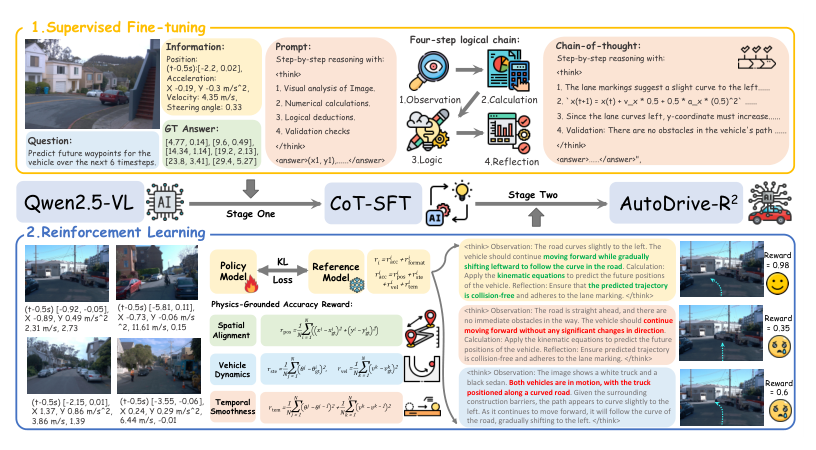
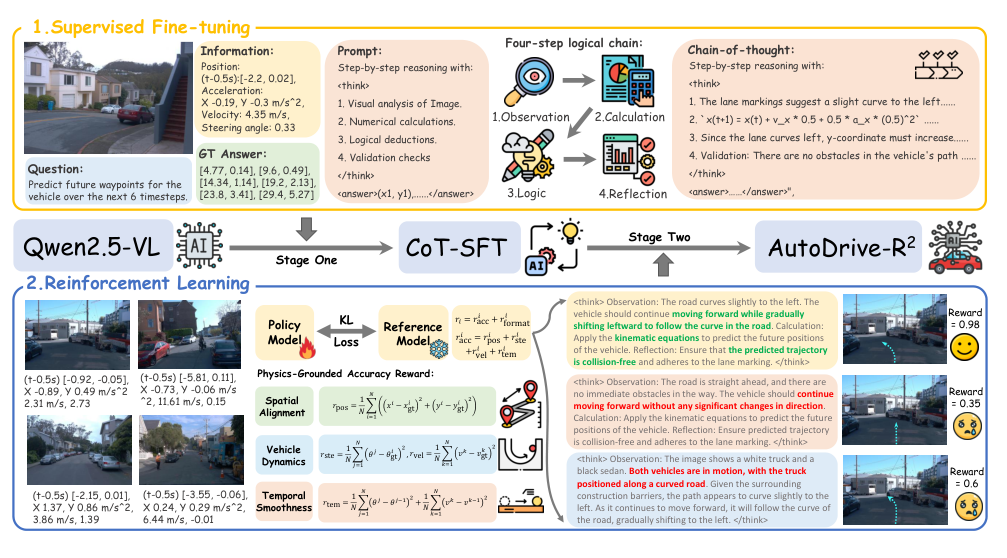
详解卡框图补齐 27→34 张(全覆盖):补 OpenDriveVLA/Triplane/OffEMMA/3DGUT 与三篇综述的分类体系图
补上的 6 篇此前不是抓不到,是 grab_fig 自身的坑:
· local_pdf 只认 storage: 前缀 —— Zotero 附件三种存法,本库 235 个 PDF 是链接文件(linkMode=2 绝对路径),被静默跳过
· 同一 cursor 连查附件与设置,后一次 execute 冲掉前一次结果集,fetchall 返回空
· 裁剪下边界只到图形区,图内底部文字标签(3DGUT 图2 的 Monte Carlo/EWA/UT)不在 get_drawings 里被拦腰截断,改为向题注方向延伸至多 22pt

另:框图加载失败时不再显示破图标,虚线框内提示路径与「多半是本地预览服务器没提供静态资源」,便于区分没抓到与服务器问题
回归 34 篇:25 篇与在用图一致,AutoDrive-R² 右缘不再切字改用新裁剪

diff --git a/pages/e2e-autonomous-driving-vla.html b/pages/e2e-autonomous-driving-vla.html
@@ -173,6 +173,10 @@ td.c{text-align:center;}
 figure.pfig{margin:6px 0 6px;}
 figure.pfig .frame{background:#fff; border:1px solid var(--line); border-radius:12px;
   padding:12px; overflow:hidden;}
+figure.pfig .frame.figfail{background:var(--panel-2); border-style:dashed; min-height:64px;
+  display:flex; align-items:center; justify-content:center; color:var(--muted); font-size:13px;}
+figure.pfig .frame.figfail::after{content:"框图加载失败：" attr(data-src) "（文件在仓库里，多半是本地预览服务器没提供静态资源）";
+  padding:14px 18px; text-align:center; line-height:1.6;}
 figure.pfig img{display:block; max-width:100%; height:auto; margin:0 auto;}
 figure.pfig figcaption{margin:7px 2px 12px; font-size:12.5px; color:var(--dim); text-align:right;
   font-family:var(--mono);}
@@ -823,6 +827,7 @@ const PAPERS = [
   '把 3D 神经重建的<span class="hi">三平面（triplane）表征</span>用于传感 token 化：token 数与相机数量、分辨率解耦，并显式编码自车周围几何；',
   '相比图像 patch token 化 <span class="hb">token 减少 72%、策略推理提速 50%</span>，为自回归 Transformer 策略上嵌入式硬件铺路；',
   '开环规划精度不降，闭环仿真 offroad 率反而改善。'],
+ fig:"../assets/e2e-ad/U5RKKDV2.png",
  dg:[["N 路相机","in"],["三平面投影编码","enc"],["紧凑传感 token","aux"],["自回归策略 Transformer","llm"],["规划轨迹","out"]],
  expr:{input:"环视多相机图像（token 化与相机数量/分辨率无关）",
    backbone:"Triplane 编码器 + 自回归 Transformer 驾驶策略",
@@ -954,6 +959,7 @@ const PAPERS = [
   '针对 VLA 在越野场景「空间感知不足、推理不稳」两大缺陷：<span class="hi">语义分割掩码作视觉提示</span>显式标注输入图像，增强预训练 VLM 对复杂地形的空间理解；',
   '<span class="hb">链式思维 + 自洽性（CoT-SC）</span>多路径推理投票，抑制离群推理对规划的干扰；',
   'RELLIS-3D 上较 Qwen 骨干基线 L2 误差降 13.3%、失败率从 16.52% 降至 6.56%。'],
+ fig:"../assets/e2e-ad/PSQLC2NZ.png",
  dg:[["越野图像","in"],["分割掩码视觉提示","aux"],["VLM（Qwen 系）","llm"],["CoT-SC 多路径推理","aux"],["轨迹","out"]],
  expr:{input:"越野场景图像 + 语义分割掩码视觉提示（显式标注可行驶区域）",
    backbone:"Qwen 系视觉-语言骨干 + 视觉提示模块 + CoT-SC 推理策略",
@@ -1006,6 +1012,7 @@ const PAPERS = [
  one:"200+ 篇统一视角：视觉中心 / VLM 中心 / 混合，同一 GE2E 问题的三种方言",
  loop:[], loopNote:"综述（含主流评测基准与性能对比整理）",
  data:["200+ 篇文献"],
+ fig:"../assets/e2e-ad/JJRGEFJ2.png",
  innov:[
   '提出「<span class="hi">通用端到端（GE2E）</span>」统一框架：视觉中心、VLM 中心与混合范式并非分岔路，而是同一问题的三种方言；',
   '系统对比三范式的架构、设计哲学与学习策略，并汇总主流评测基准与横向性能；',
@@ -1021,6 +1028,7 @@ const PAPERS = [
  one:"VLM × 自动驾驶全景：感知 / 导航规划 / 决策控制 / E2E / 数据生成",
  loop:[], loopNote:"综述（含语言增强数据集汇总）",
  data:["Awesome-VLM-AD-ITS 文献库"],
+ fig:"../assets/e2e-ad/32YWYGGD.png",
  innov:[
   '按<span class="hi">感知理解、导航规划、决策控制、端到端、数据生成</span>五大应用域组织 VLM-AD 文献，并整理主流任务与指标；',
   '系统汇总<span class="hb">语言增强的自动驾驶数据集</span>，指出研究空白与未来趋势；',
@@ -1036,6 +1044,7 @@ const PAPERS = [
  one:"从规则 → 优化 → 学习 → 知识驱动：LLM 领衔第三代 AD 的批判性回顾",
  loop:[], loopNote:"综述",
  data:["模块化与 E2E 两条线文献"],
+ fig:"../assets/e2e-ad/US2EBTVT.png",
  innov:[
   '把 AD 演进梳理为「规则/优化 → 学习 → <span class="hi">知识驱动（LLM 赋能）</span>」三代叙事，锚定「类人驾驶」目标；',
   '分别审视 LLM 在<span class="hb">模块化流水线与端到端系统</span>中的应用，批判性讨论实时推理、安全保障与部署成本三大拦路虎。'],
@@ -1129,6 +1138,7 @@ const PAPERS = [
   '用<span class="hi">无迹变换（UT）的 sigma 点</span>替代 EWA splatting 的线性化投影：任意非线性投影（鱼眼、卷帘快门等真实车载相机）都能精确处理；',
   '渲染公式与 tracing 系方法对齐，<span class="hb">同一 3D 表征内支持反射/折射等二次光线</span>，同时保持光栅化效率；',
   '对自动驾驶的意义：车载畸变相机 + 时间相关效应正是 <span class="ht">3DGS 闭环仿真（如 RAD）</span>落地的关键基建。'],
+ fig:"../assets/e2e-ad/ZRQAX229.png",
  dg:[["3D 高斯场景","in"],["UT sigma 点投影","enc"],["畸变相机 / 卷帘快门","aux"],["光栅化 + 二次光线","out"]],
  expr:{input:"多视角图像重建的 3D 高斯场景（渲染方法，与驾驶数据集无关）",
    backbone:"3DGS 管线中以 Unscented Transform 替换 EWA splatting",
@@ -1264,7 +1274,8 @@ document.getElementById("f-reset").addEventListener("click", () => {
     let html = `<p class="grpdesc">${esc(g.desc)}</p>`;
     for (const p of ps) {
       const figHtml = p.fig
-        ? `<figure class="pfig"><div class="frame"><img loading="lazy" src="${p.fig}" alt="${esc(p.name)} 模型框图（原论文）"></div>
+        ? `<figure class="pfig"><div class="frame"><img loading="lazy" src="${p.fig}" alt="${esc(p.name)} 模型框图（原论文）"
+               onerror="this.style.display='none';this.parentElement.classList.add('figfail');this.parentElement.dataset.src=this.getAttribute('src')"></div>
              <figcaption>框图截自原论文（<a href="${p.url||'#'}" target="_blank" rel="noopener">${esc(p.venueShort||p.venue||"原文")}</a>），版权归原作者所有</figcaption></figure>`
         : "";
       const pipe = (!p.fig && p.dg) ? `<div class="pipe">${p.dg.map(([t,c],i)=>

diff --git a/tools/litpipe/grab_fig.py b/tools/litpipe/grab_fig.py
@@ -62,15 +62,35 @@ def local_pdf(key):
     tmp = Path(tempfile.mkdtemp()) / "z.sqlite"
     shutil.copy(src, tmp)
     cur = sqlite3.connect(tmp).cursor()
-    cur.execute("""SELECT ai.key, ia.path FROM items i
+    cur.execute("""SELECT ai.key, ia.path, ia.linkMode FROM items i
         JOIN itemAttachments ia ON ia.parentItemID = i.itemID
         JOIN items ai ON ai.itemID = ia.itemID
         WHERE i.key = ? AND ia.contentType = 'application/pdf'""", (key,))
-    for akey, path in cur.fetchall():
-        if path and path.startswith("storage:"):
-            p = Path.home() / "Zotero/storage" / akey / path[len("storage:"):]
-            if p.exists():
-                return p
+    rows = cur.fetchall()          # 必须先取走:同一 cursor 再 execute 会冲掉上一个结果集
+    # 附件有三种存法,只认 storage: 会静默漏掉一大批(本库 235 个 PDF 是链接文件):
+    #   linkMode 0/1 导入 → path = "storage:文件名",实际在 ~/Zotero/storage/<附件key>/
+    #   linkMode 2 链接  → path = 绝对路径,或 "attachments:相对路径"(相对附件基础目录)
+    base = None
+    try:
+        cur.execute("SELECT value FROM settings WHERE setting='extensions.zotero' AND key='baseAttachmentPath'")
+        row = cur.fetchone()
+        if row:
+            base = Path(str(row[0]).strip('"'))
+    except Exception:
+        pass
+    for akey, path, _mode in rows:
+        if not path:
+            continue
+        if path.startswith("storage:"):
+            f = Path.home() / "Zotero/storage" / akey / path[len("storage:"):]
+        elif path.startswith("attachments:"):
+            if not base:
+                continue
+            f = base / path[len("attachments:"):]
+        else:
+            f = Path(path)
+        if f.exists():
+            return f
     return None
 
 
@@ -270,9 +290,11 @@ def figure_rect(page, cap_rect):
     rect = keep[0]
     for r in keep[1:]:
         rect |= r
-    # 略微外扩避免切到描边;但**下边不能越过题注顶边**,否则会把
-    # 「Figure 2. Framework of ...」那行文字裁进图里(页面自己会另配题注)
-    bottom = min(rect.y1 + 4, cap_rect.y0 - 2)
+    # 下边界向题注方向延伸,兜住图内底部的文字标签(如 3DGUT 图 2 底下的
+    # 「Monte Carlo Sampling / Linearization (EWA) / Unscented Transform」)——
+    # 这些是文字不在 get_drawings() 里,只到图形区就会被拦腰截断;
+    # 但**不能越过题注顶边**,否则「Figure 2. ...」那行会被裁进图里(页面另配题注)
+    bottom = min(cap_rect.y0 - 2, rect.y1 + 22)
     rect = fitz.Rect(rect.x0 - 4, rect.y0 - 4, rect.x1 + 4, bottom) & page.rect
     return rect
 
